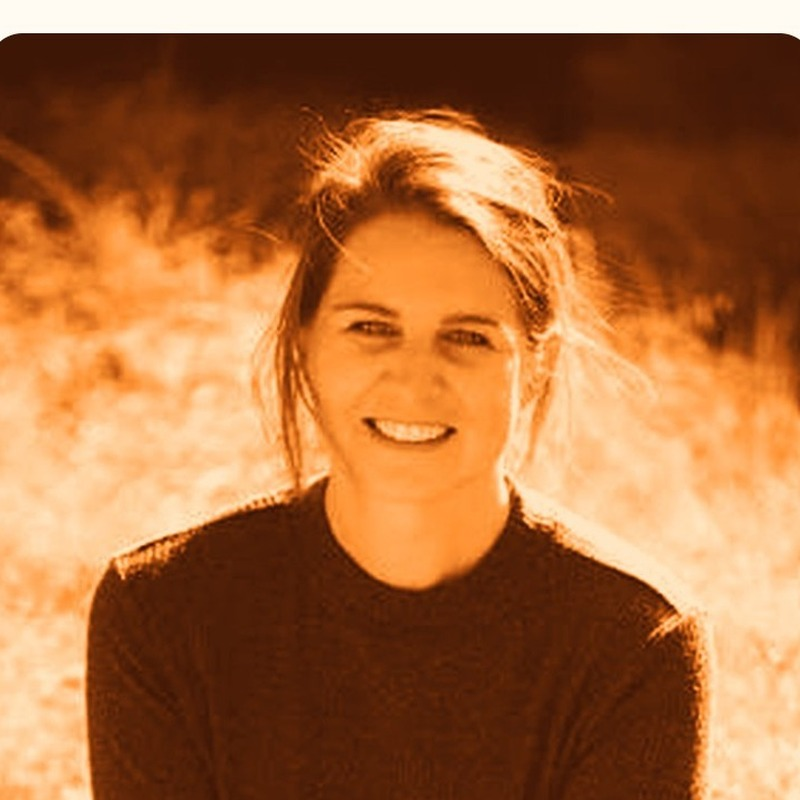
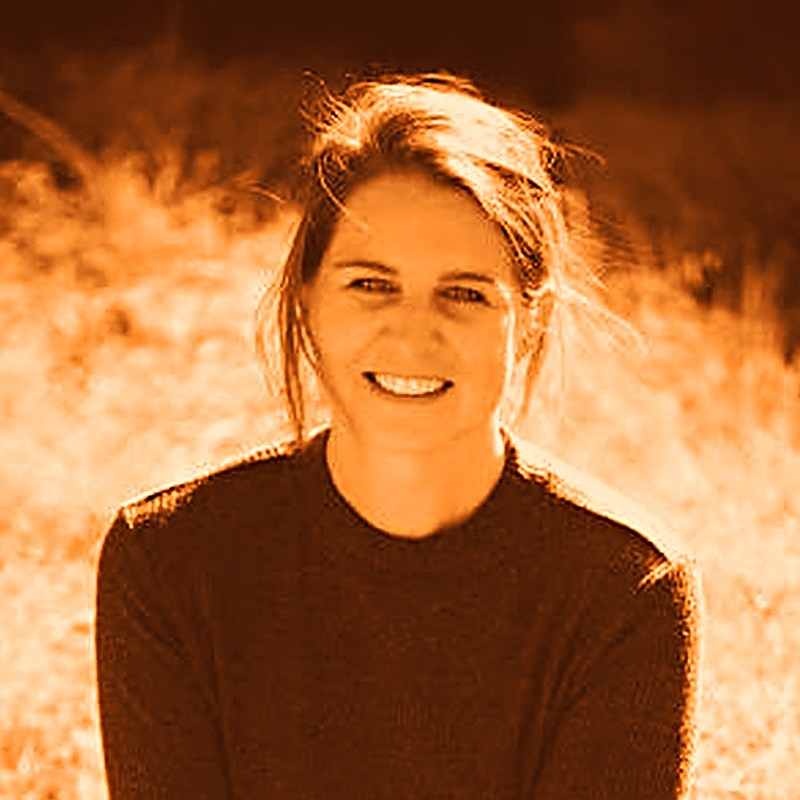
feat: apply the latest website design export
Why: Evelien's 27 Nov export updates the Home greeting (stacked Talk to / Mandi with progress dots), adds the language line to the closing CTA, moves the English/Afrikaans video choice onto the doctor card, changes the Doctors footer links, adds the new Dr Chantal Hadfield bio, and provides the original founder photos. Apply those page and text changes.

Checks: npx tsc --noEmit, npm run lint, npm run build.

Risk: the export's Busi Ndlovu bio conflicts with the correction the user sent earlier; the user's fuller BSc/BCom/MPhil wording is retained pending confirmation. Comments in the shared Claude artifact are not in the ZIP and remain unread.

diff --git a/src/app/page.tsx b/src/app/page.tsx
@@ -7,12 +7,7 @@ import AnimatedBlanket from "@/components/site/AnimatedBlanket";
 import SiteFooter from "@/components/site/SiteFooter";
 import SiteHeader from "@/components/site/SiteHeader";
 
-const GREETINGS = [
-  { lead: "Talk to", brand: "Mandi" },
-  { lead: "Khuluma", brand: "noMandi" },
-  { lead: "Thetha", brand: "noMandi" },
-  { lead: "Praat met", brand: "Mandi" },
-] as const;
+const GREETINGS = ["Talk to", "Khuluma no", "Thetha no", "Praat met"] as const;
 
 const STRIP_COLOURS = [
   "#FFD66B",
@@ -82,12 +77,10 @@ export default function HomePage() {
     if (window.matchMedia("(prefers-reduced-motion: reduce)").matches) return;
     const id = window.setInterval(
       () => setGreeting((current) => (current + 1) % GREETINGS.length),
-      2600,
+      2400,
     );
     return () => window.clearInterval(id);
   }, []);
-
-  const phrase = GREETINGS[greeting];
 
   return (
     <div className="min-h-screen overflow-x-clip bg-cream font-sans text-brown">
@@ -112,15 +105,38 @@ export default function HomePage() {
 
             <h1
               aria-label={`${t("home.titleLead")} ${t("home.titleBrand")}`}
-              className="min-h-[1.05em] font-display text-[44px] font-extrabold leading-[0.98] tracking-[-0.04em] sm:text-6xl lg:text-7xl xl:text-[86px]"
+              className="flex flex-col items-start font-display text-[44px] font-extrabold leading-none tracking-[-0.04em] sm:text-6xl lg:text-7xl xl:text-[80px] xl:tracking-[-2.5px]"
             >
-              <span key={greeting} aria-hidden className="inline-block animate-rise-in">
-                {phrase.lead}{" "}
-                <span className="bg-[linear-gradient(180deg,transparent_62%,rgba(255,251,243,0.75)_62%)] px-1.5">
-                  {phrase.brand}
-                </span>
+              <span
+                key={greeting}
+                aria-hidden
+                className="inline-block whitespace-nowrap animate-rise-in"
+              >
+                {GREETINGS[greeting]}
+              </span>
+              <span
+                aria-hidden
+                className="-ml-1.5 bg-[linear-gradient(180deg,transparent_62%,rgba(255,251,243,0.75)_62%)] px-1.5"
+              >
+                Mandi
               </span>
             </h1>
+
+            <div aria-hidden className="-mt-2 flex gap-1.5">
+              {GREETINGS.map((_, index) => (
+                <span
+                  key={index}
+                  className="h-1.5 rounded-full transition-all duration-300"
+                  style={{
+                    width: index === greeting ? 22 : 6,
+                    background:
+                      index === greeting
+                        ? "#2C1810"
+                        : "rgba(44,24,16,0.3)",
+                  }}
+                />
+              ))}
+            </div>
 
             <p className="max-w-[540px] text-lg font-semibold leading-snug sm:text-2xl sm:leading-[1.4]">
               {t("home.sub")}
@@ -517,6 +533,10 @@ export default function HomePage() {
             <h2 className="font-display text-[30px] font-extrabold leading-[1.08] tracking-[-0.03em] sm:text-[42px] sm:tracking-[-1px]">
               {t("home.ctaTitle")}
             </h2>
+            <p className="text-[15px] font-normal leading-relaxed sm:text-[17px] sm:leading-[1.55]">
+              {t("home.ctaLanguageLead")}{" "}
+              <b className="font-bold">{t("home.ctaLanguageStrong")}</b>
+            </p>
             <p className="text-[15px] font-semibold leading-relaxed sm:text-[17px] sm:leading-[1.55]">
               {t("home.ctaBody")}
             </p>

diff --git a/src/components/site/SiteFooter.tsx b/src/components/site/SiteFooter.tsx
@@ -5,11 +5,31 @@ import Link from "next/link";
 export default function SiteFooter({
   variant = "home",
 }: {
-  variant?: "home" | "page";
+  variant?: "home" | "page" | "doctors";
 }) {
+  const links =
+    variant === "home"
+      ? [
+          { href: "/doctors", label: "For doctors" },
+          { href: "/about", label: "About" },
+        ]
+      : variant === "doctors"
+        ? [
+            { href: "/", label: "Home" },
+            { href: "/about", label: "About" },
+          ]
+        : [
+            { href: "/", label: "Home" },
+            { href: "/doctors", label: "For doctors" },
+          ];
+
   return (
     <footer
-      className={variant === "home" ? "bg-brown-warm text-peach" : "bg-brown text-[#FFF5E6]"}
+      className={
+        variant === "home"
+          ? "bg-brown-warm text-peach"
+          : "bg-brown text-[#E9CDB4]"
+      }
     >
       <div className="mx-auto flex max-w-[1200px] flex-wrap items-center justify-between gap-7 px-5 py-12 sm:px-10">
         <div className="flex items-center gap-4">
@@ -26,18 +46,15 @@ export default function SiteFooter({
         </div>
 
         <nav aria-label="Footer" className="flex flex-wrap gap-5 text-sm">
-          <Link
-            href={variant === "home" ? "/doctors" : "/"}
-            className="text-[#FFF5E6] no-underline hover:underline"
-          >
-            {variant === "home" ? "For doctors" : "Home"}
-          </Link>
-          <Link
-            href={variant === "home" ? "/about" : "/doctors"}
-            className="text-[#FFF5E6] no-underline hover:underline"
-          >
-            {variant === "home" ? "About" : "For doctors"}
-          </Link>
+          {links.map((link) => (
+            <Link
+              key={link.href}
+              href={link.href}
+              className="text-[#FFF5E6] no-underline hover:underline"
+            >
+              {link.label}
+            </Link>
+          ))}
           <a
             href="mailto:hello@joinmandi.com"
             className="text-[#FFF5E6] no-underline hover:underline"

diff --git a/src/components/site/DoctorVideo.tsx b/src/components/site/DoctorVideo.tsx
@@ -39,6 +39,32 @@ export default function DoctorVideo() {
             height={32}
             className="absolute left-4 top-4 h-auto w-14 opacity-95 sm:left-[30px] sm:top-[26px] sm:w-[72px]"
           />
+          <div
+            role="group"
+            aria-label="Video language"
+            className="absolute right-4 top-4 flex gap-0.5 rounded-full border border-[#FFF5E6]/30 bg-[#FFF5E6]/15 p-1 text-[10px] font-bold sm:right-[26px] sm:top-[24px] sm:text-[13px]"
+          >
+            {(
+              [
+                ["en", "English"],
+                ["af", "Afrikaans"],
+              ] as const
+            ).map(([code, label]) => (
+              <button
+                key={code}
+                type="button"
+                onClick={() => setLanguage(code)}
+                aria-pressed={language === code}
+                className={`rounded-full px-2.5 py-1.5 sm:px-3.5 sm:py-2 ${
+                  language === code
+                    ? "bg-sun text-brown"
+                    : "bg-transparent text-[#FFF5E6]"
+                }`}
+              >
+                {label}
+              </button>
+            ))}
+          </div>
           <button
             type="button"
             onClick={() => setOpen(true)}

diff --git a/src/app/about/page.tsx b/src/app/about/page.tsx
@@ -43,7 +43,7 @@ const ADVISERS = [
   {
     name: "Dr Chantal Hadfield",
     role: "STRATEGIC ADVISER",
-    bio: "Medical doctor and healthcare executive (Corvalia Health), with experience across telehealth, retail pharmacy and medical schemes.",
+    bio: "Medical doctor and healthcare executive with experience from start-up to corporate across medical schemes, digital health and analytics. She is passionate about value-based care and founded Corvalia Health to help others deliver it.",
     linkedin: "https://www.linkedin.com/in/chantal-lourenco-hadfield/",
     bar: "linear-gradient(90deg,#FFAA4F,#F7894F)",
   },

diff --git a/src/app/doctors/page.tsx b/src/app/doctors/page.tsx
@@ -722,7 +722,7 @@ export default function DoctorsPage() {
         </div>
       </section>
 
-      <SiteFooter variant="page" />
+      <SiteFooter variant="doctors" />
     </div>
   );
 }
